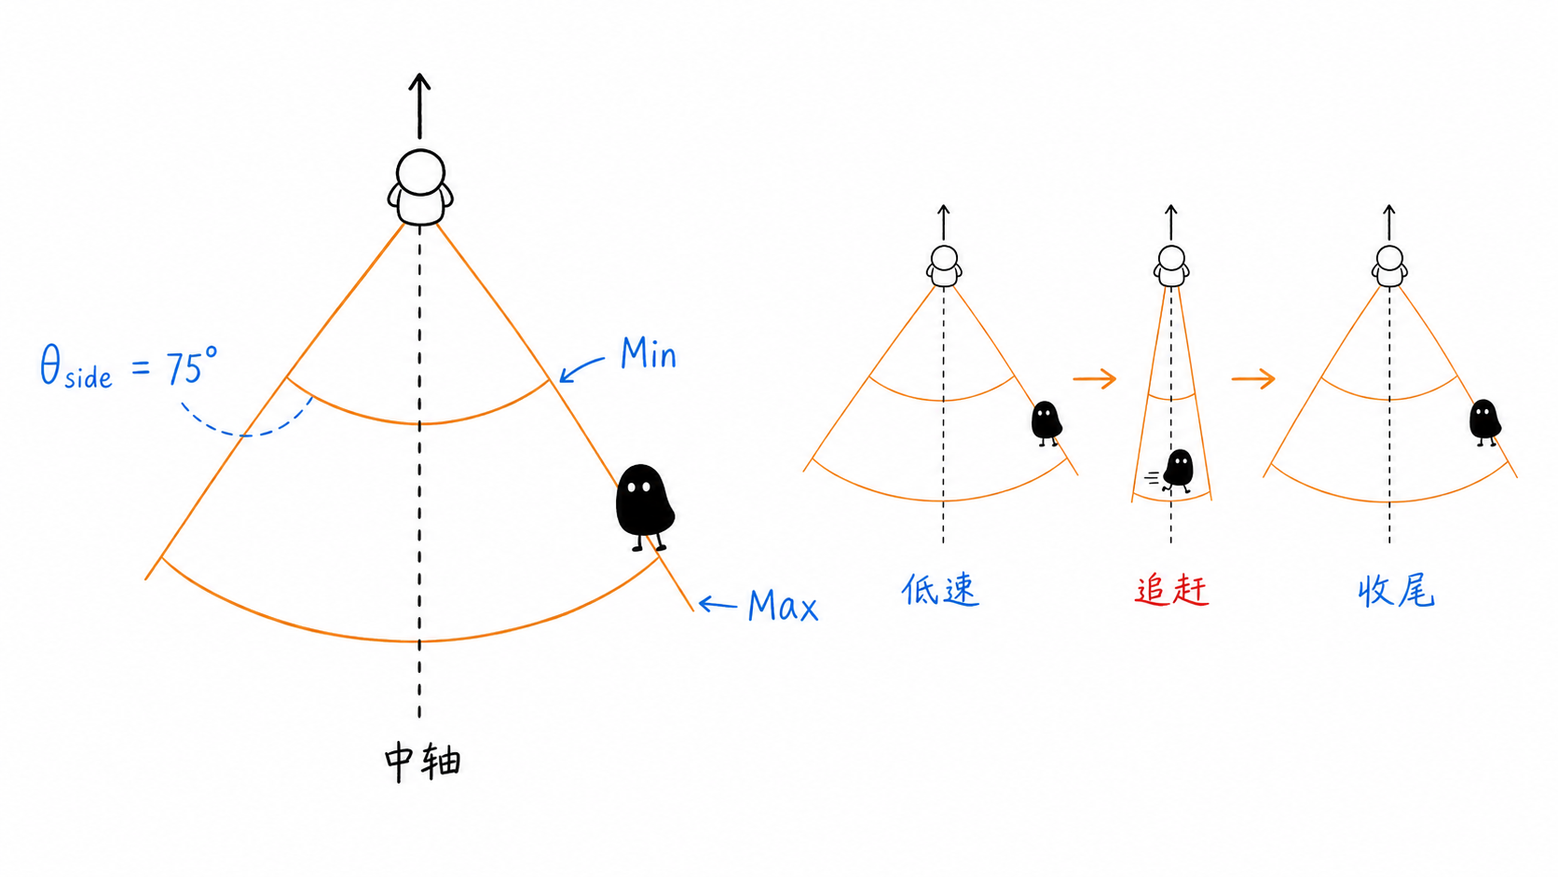
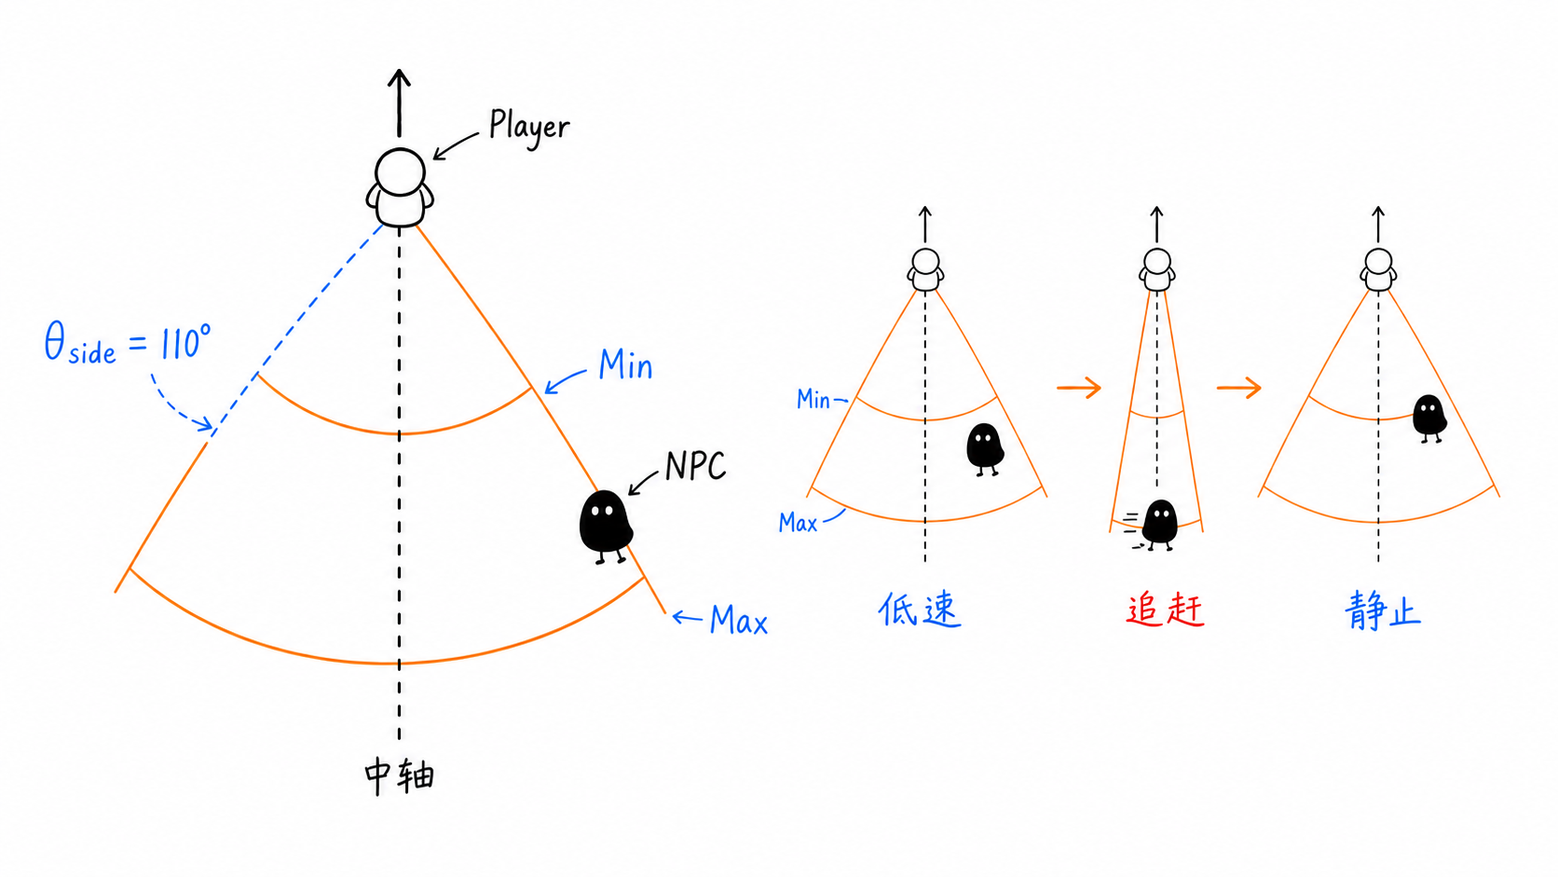
refine natural follow behavior article

diff --git a/src/content/blog/natural-follow-behavior-design.md b/src/content/blog/natural-follow-behavior-design.md
@@ -24,11 +24,11 @@ draft: false
   <figcaption>《原神》任务中 NPC 跟随玩家的表现：功能上能够跟上，但起停、转向和站位仍然容易显得生硬。</figcaption>
 </figure>
 
-这些问题不是单纯调高移动速度或缩短跟随距离就能解决的。对跟随系统而言，玩家的行为是一组无法预先控制的外部输入：玩家何时起步、向哪里移动、什么时候加速、转向或停止，都不由跟随系统决定。我们真正能够优化的，是 NPC 面对这些变化时所呈现出来的跟随表现。
+这些问题不能只靠调高移动速度或缩短跟随距离解决。对跟随系统来说，玩家的行为是一组无法预知的外部输入：玩家何时起步、向哪里移动、什么时候加速、转向或停止，都不由系统决定。系统能控制的，只有 NPC 如何响应这些变化。
 
 这是系列的上篇，只讨论 NPC 跟随玩家的情况。当玩家成为跟随方时，设计目标会从“维持自然站位”转变为“让 NPC 提供清晰、可追踪的引导”，那部分留到下篇。
 
-什么叫“自然”？我把开头观察到的几个问题落成四条验收标准，后文的设计和最后一节的走查都围绕它们展开：
+什么叫“自然”？我把开头观察到的问题整理成四条验收标准：
 
 1. **起停无指令感**：起步和停止有观察与过渡，不与玩家同帧响应；
 2. **站位稳定可预期**：距离和方位不忽近忽远、不左右横跳；
@@ -50,18 +50,12 @@ draft: false
 
 我想要的跟随更像放风筝：玩家始终牵着线，但 NPC 有自己的滑翔。具体来说，我不让 NPC 锁定玩家身后的某个固定点，而是给它一个**会随运动状态变形的扇形区域**：走得慢，待在侧后方；玩家突然跑起来，NPC 先愣一下再追，位置被拉向正后方；玩家停下，再慢慢踱回侧后方。
 
-把这个想法做出来，需要回答三个问题，它们也是本文的三层结构：
+要把这个想法做出来，需要分清三件事：站位决定 NPC 待在哪里，时序决定它什么时候响应，运动控制决定它怎么过去。第 5 节再用行为树把三者接起来，第 6 节回看验收结果。
 
-- NPC 应该待在哪里——站位（第 2 节）；
-- NPC 什么时候响应——时序（第 3 节）；
-- NPC 怎么移动——运动控制（第 4 节）。
-
-第 5 节把三层整合进行为树，第 6 节拿四条验收标准回头检查整个设计。
-
-**坐标与术语约定**（后文统一使用，不再重复说明）：
+**坐标与术语约定**：
 
 - 讨论相对位置时，假设玩家位于坐标原点、面朝 `+Y` 方向；玩家正后方的 `-Y` 轴称为**中轴**；
-- NPC 相对中轴的夹角记为 `θ`，与玩家的距离记为 `d`；
+- NPC 相对玩家前向 `+Y` 的有符号方位角记为 `θ`，与玩家的距离记为 `d`；中轴对应 `|θ| = 180°`；
 - NPC 在当前运动状态下应该处于的位置，称为**理想站位**；
 - “玩家先动、NPC 晚多久响应”的这段时间，称为**反应延迟 `τ`**。
 
@@ -80,13 +74,13 @@ draft: false
 这些随运动状态连续变化的理想站位，在玩家身后共同形成一个扇形。
 
 <figure>
-  <img src="/images/natural-follow-behavior-design/03-breathing-fan-model.png" alt="玩家面朝上方时，NPC 小黑在身后的扇形区域内移动；低速时扇形展开至侧后方，追赶时向中轴收拢，收尾时再次展开" loading="lazy" decoding="async" />
-  <figcaption>会“呼吸”的扇形：低速展开至侧后方，追赶时收向中轴，减速后再展开回来。</figcaption>
+  <img src="/images/natural-follow-behavior-design/03-breathing-fan-model.png" alt="玩家面朝上方时，NPC 小黑在身后的扇形区域内移动；低速时位于最小与最大距离之间，追赶时靠近中轴和最大距离，静止时回到侧后方的最小距离" loading="lazy" decoding="async" />
+  <figcaption>会“呼吸”的扇形：低速位于侧后方，追赶时收向中轴和远端，静止后再回到侧后方近端。</figcaption>
 </figure>
 
-距离同样不是定值：NPC 可以在最小距离 `Min` 和最大距离 `Max` 之间，根据当前速度和追赶状态调整远近。为了制作 Demo，我先取 `θ_side = 75°`、`Max = 5m`，得到一个总角度 `150°` 的扇形；这些只是演示参数，实际项目中可以按玩家速度、角色体型、人物关系和表演需求调整。
+距离也会随状态变化。静止时靠近 `Min`，低速移动时位于 `Min` 和 `Max` 之间，高速追赶时再向 `Max` 拉开。为了制作 Demo，我先把静止时的侧后方方位角 `θ_side` 设为 `110°`（从玩家前向量起），并取 `Max = 5m`。这样算下来，玩家身后的扇形张角约为 `140°`。这些只是 Demo 参数，实际项目中可以按玩家速度、角色体型、人物关系和表演需求调整。
 
-这里要区分扇形和工程容差：**扇形是所有运动状态下理想站位的集合；容差区只是围绕当前理想站位的一小块允许范围**，用来避免 NPC 因为微小误差频繁修正。容差区是防抖动手段，不是模型本身。
+扇形描述所有运动状态下的理想站位集合。工程上的容差区只是围绕当前理想站位的一小块范围，用来避免 NPC 因为微小误差频繁修正。它是防抖动手段，不是模型本身。
 
 “左后方”和“右后方”也不是固定状态，它们只是 NPC 当前相对位置的结果：玩家转向时，NPC 可以自然地从一侧过渡到另一侧，不必绕过玩家来维持原来的站位侧。
 
@@ -94,7 +88,7 @@ draft: false
 
 玩家在巷子里突然 180° 转身去捡一个掉落物——这是跟随系统最怕的瞬间之一。
 
-扇形锚定在玩家朝向上：玩家转向，扇形就跟着转。小幅转弯时，NPC 当前位置通常仍在新扇形的容差范围内，继续走就行，不必修正站位；中等转弯时，NPC 顺势从左后方过渡到右后方；只有大幅转向、当前位置明显偏离新扇形时，系统才重新计算目标——至于新目标怎么选，交给第 4 节。
+扇形锚定在玩家朝向上，玩家转向，它也跟着转。小幅转弯时，NPC 通常仍在新扇形的容差范围内，不必修正站位。中等转弯时，NPC 可以顺势从左后方过渡到右后方。只有大幅转向、当前位置明显偏离新扇形时，系统才会重新计算目标。
 
 ## 3. 时序：玩家先动，NPC 稍后响应
 
@@ -102,18 +96,18 @@ draft: false
 
 玩家在起步的同一帧就被跟上，看起来会很机灵，但也很不像人。我选择让 NPC 先观察、再响应：玩家先动，NPC 经过一段反应延迟 `τ` 后再跟上。这个延迟模拟的是 NPC 注意到玩家状态变化、再作出反应的过程。
 
-延迟不只用于起步，也用于之后对玩家速度、方向和转向状态的同步。这里还有一个设计立场的选择：日式 RPG 里常见的“蜈蚣式跟随”——队伍成员沿领队走过的精确路径依次跟进——实现简单，但转弯时像一列火车。我让 NPC 在获得玩家状态后，结合自己的当前位置**重新计算目标**，而不是复现路径。人机跟随研究也支持这个方向：相比复现被跟随者的精确路径，参与者认为朝向被跟随者当前方向移动的机器人更加自然、更像人。[Natural Person-Following Behavior for Social Robots](https://www.ri.cmu.edu/pub_files/pub4/gockley_rachel_2007_1/gockley_rachel_2007_1.pdf)
+延迟不只用在起步上，玩家速度、方向和朝向的变化也会晚一些反映到 NPC。日式 RPG 里常见“蜈蚣式跟随”：队伍成员沿领队走过的精确路径依次跟进。这样实现简单，但转弯时像一列火车。我的做法是让 NPC 读到玩家状态后，结合自己的当前位置**重新计算目标**，而不是复现路径。人机跟随研究也得到了类似结果：相比复现被跟随者的精确路径，参与者认为朝向被跟随者当前方向移动的机器人更自然、更像人。[Natural Person-Following Behavior for Social Robots](https://www.ri.cmu.edu/pub_files/pub4/gockley_rachel_2007_1/gockley_rachel_2007_1.pdf)
 
-行为学实验也观察到了类似的滞后：在一项直线行人跟随实验中，领路者改变速度后，跟随者加速度变化的平均延迟约为 `420ms`。这说明“玩家先动、NPC 稍后响应”有现实依据，但 `420ms` 不能直接搬进游戏，实际取值仍要服从角色响应感、移动速度和动画节奏。[行人跟随中的速度视觉控制研究](https://pmc.ncbi.nlm.nih.gov/articles/PMC3919103/) 这里的取舍是：`τ` 越长越从容，也越容易掉队——这个矛盾的另一半，由下面的安全通道解决。
+一项直线行人跟随实验测到，领路者改变速度后，跟随者加速度变化的平均延迟约为 `420ms`。这给“玩家先动、NPC 稍后响应”提供了现实参照，但这个数不能直接搬进游戏。`τ` 还要按角色响应感、移动速度和动画节奏来调。[行人跟随中的速度视觉控制研究](https://pmc.ncbi.nlm.nih.gov/articles/PMC3919103/) `τ` 越长，NPC 显得越从容，也越容易掉队；距离失控时，实时安全通道会直接触发追赶。
 
 <figure>
   <img src="/images/natural-follow-behavior-design/04-reaction-delay-curve.png" alt="玩家速度先上升，NPC 速度经过反应延迟后才开始上升，并在追赶阶段短暂超过玩家速度，最后比玩家更晚收敛到零" loading="lazy" decoding="async" />
   <figcaption>反应延迟不是停顿：NPC 晚 `τ` 起步，随后通过追赶追回距离，并在玩家停止后平滑收敛。</figcaption>
 </figure>
 
-工程上还要区分三个时间概念，避免它们被简单相加成一段漫长的等待：
+工程上有三个容易混淆的时间概念。它们不能简单相加，否则 NPC 会等得太久：
 
-- **移动确认时间**：判断玩家是正式移动，还是只碰了一下摇杆——它就是第 5 节 `React` 状态的进入条件；
+- **移动确认时间**：判断玩家是正式移动，还是只碰了一下摇杆，也是第 5 节 `React` 状态的进入条件；
 - **状态采样间隔**：系统多久记录一次玩家状态，纯属实现频率；
 - **反应延迟 `τ`**：玩家状态确认变化后，NPC 在表现上晚多久响应，本文讨论的“延迟”都指它。
 
@@ -122,9 +116,9 @@ draft: false
 延迟可以驱动普通跟随，但不能处理所有问题。系统同时维护两条通道：
 
 - **延迟快照**：玩家的位置、移动方向、移动速度、转向状态，经过延迟后驱动普通跟随；
-- **实时通道**：只用玩家当前的真实位置检查双方距离，一旦超过 `Max` 或距离失控，立刻触发追赶——它不做别的，只负责兜底。
+- **实时通道**：只用玩家当前的真实位置检查双方距离，一旦超过 `Max` 或距离失控，立刻触发追赶；除此之外不参与普通跟随。
 
-这样两种效果兼得：平时保留“玩家先动、NPC 稍后跟上”的从容；玩家突然加速时，又不会因为等待延迟而让 NPC 落后太久。
+普通情况下，NPC 仍会晚一步响应；距离超过 `Max` 时，实时通道会直接切入追赶，不再等待延迟。
 
 ## 4. 运动：从站位目标到连续移动
 
@@ -132,23 +126,24 @@ draft: false
 
 系统每次更新时，手里有两份状态：玩家的延迟状态 `Sₚ(t - τ)`（位置 `Pₚ`、速度 `Vₚ`、朝向 `φₚ`），以及 NPC 的当前状态 `Sₐ(t)`。
 
-先把 NPC 的世界坐标转换到玩家延迟状态的局部坐标，得到当前距离 `d` 和相对角度 `θ`。再用 `u ∈ [0, 1]` 表示当前的追赶强度——`u` 可以由玩家延迟速度归一化后与距离误差加权得到，Demo 里甚至可以只用速度一项。理想站位的角度：
+先把 NPC 的世界坐标转换到玩家延迟状态的局部坐标，得到当前距离 `d` 和相对角度 `θ`。再用 `u ∈ [0, 1]` 表示当前的追赶强度。`u` 可以由玩家延迟速度归一化后与距离误差加权得到，Demo 里甚至可以只用速度一项。理想站位可以这样计算：
 
 ```text
-θ_pref = side × (1 - u) × θ_side
+θ_pref = side × Lerp(θ_side, 180°, u)
+d_pref = Lerp(Min, Max, u)
 ```
 
-翻译过来：**跑得越急，越往正后方钻**。`side` 表示当前位于左侧还是右侧（它只是结果，不是状态），`θ_side` 是低速时的侧后方偏好角度。
+**跑得越急，越往正后方钻，也离玩家越远**。`side` 表示当前位于左侧还是右侧（它只是结果，不是状态），`θ_side` 是静止时从玩家前向量到侧后方的偏好角度。`u = 0` 时，NPC 靠近侧后方的 `Min`；`u = 1` 时，NPC 靠近中轴上的 `Max`。
 
-值得一提的是，加速时 `|θ|` 的收拢有一半是几何白送的——玩家沿自己的朝向跑远，落后的 NPC 相对角度自然变小。`θ_pref` 真正不可替代的价值在另一半：**减速后主动展开回侧后方，以及左右侧的选择与切换**——这些几何不送。
+玩家沿自己的朝向跑远时，落后的 NPC 本来就会自然接近正后方，因此 `|θ|` 向 `180°` 靠拢有一半是几何白送的。`θ_pref` 负责几何不会自动完成的另一半：减速后重新展开到侧后方，以及左右侧的选择与切换。这些几何不送。
 
-距离 `d_pref` 按同样的 `u` 在 `Min` 与 `Max` 之间调整，与 `θ_pref` 共同得到局部坐标中的理想站位。站位周围设一小块容差区防抖：NPC 位于容差区内时保持当前相对位置，离开后目标指向扇形内较近的一侧。最后把局部目标转换回世界坐标：
+`d_pref` 与 `θ_pref` 共同得到局部坐标中的理想站位。站位周围设一小块容差区防抖：NPC 位于容差区内时保持当前相对位置，离开后目标指向扇形内较近的一侧。最后把局部目标转换回世界坐标：
 
 ```text
 Q = Pₚ(t - τ) + Rotate(φₚ(t - τ), r*)
 ```
 
-第 2.3 节留下的大幅转向问题也在这里落地：玩家大幅转向时，新扇形中“距离 NPC 当前位置较近、同时符合当前速度状态”的位置成为新目标——所以 NPC 可能顺势换到另一侧，而不是绕远路维持原来的站位侧。
+玩家大幅转向后，系统会在新扇形中选择“距离 NPC 当前位置较近、同时符合当前速度状态”的位置作为目标。NPC 因此可能顺势换到另一侧，不必绕远路维持原来的站位侧。
 
 ### 4.2 用参考速度和加速度走完最后一步
 
@@ -159,7 +154,7 @@ Vraw = Vₚ(t - τ) + Kₚ(Q - Pₐ)
 Vᵣ = ClampMagnitude(Vraw, Vₘₐₓ(state))
 ```
 
-翻译过来：**一边跟上玩家的延迟速度，一边按站位误差纠偏**；`Vₘₐₓ(state)` 允许正常跟随和追赶状态使用不同的速度上限。
+NPC **一边跟上玩家的延迟速度，一边按站位误差纠偏**；`Vₘₐₓ(state)` 允许正常跟随和追赶状态使用不同的速度上限。
 
 参考速度不能直接赋值，否则速度会瞬间跳变。我选择让系统持续施加加速度，让当前速度逐渐接近参考速度：
 
@@ -170,11 +165,11 @@ Vₐ(t + Δt) = Vₐ(t) + Aₐ × Δt
 Pₐ(t + Δt) = Pₐ(t) + Vₐ × Δt
 ```
 
-`T` 控制收敛需要多长时间，`Aₘₐₓ(state)` 限制不同状态下的最大加速度。代码层面，跟随系统持续输出加速度或移动输入，而不是在状态变化时改写速度——这样起步和停止自然有了过渡，动画系统也好配合。
+`T` 控制收敛需要多长时间，`Aₘₐₓ(state)` 限制不同状态下的最大加速度。代码层面，跟随系统持续输出加速度或移动输入，不在状态变化时直接改写速度。起步和停止因此有了过渡，动画系统也更容易配合。
 
-同一套控制也顺带解决了转弯表现：目标方向变化小，参考速度的方向变化就小，NPC 走出平缓的弯；变化大，转向幅度逐渐提高，速度越高完成转向所需的空间越大，因此还需要各状态的速度与加速度上限约束追赶时的转弯幅度。
+同一套控制也能处理转弯。目标方向变化小，参考速度的方向变化也小，NPC 会走出平缓的弯。变化大时，转向幅度逐渐提高。速度越高，完成转向所需的空间越大，因此还要用各状态的速度与加速度上限约束追赶时的转弯幅度。
 
-要注意的是，延迟加修正增益的组合本身有振荡风险——追过头、再反向修正、来回拉锯。加速度收敛可以提供阻尼，但最终是否稳定，仍取决于 `τ`、`Kₚ`、`T` 以及各项上限的搭配。[Time-delayed Follow-the-Leader model](https://www.aimsciences.org/article/doi/10.3934/nhm.2015.10.579)
+延迟加修正增益的组合本身有振荡风险：追过头、再反向修正、来回拉锯。加速度收敛可以提供阻尼，但最终是否稳定，仍取决于 `τ`、`Kₚ`、`T` 以及各项上限的搭配。[Time-delayed Follow-the-Leader model](https://www.aimsciences.org/article/doi/10.3934/nhm.2015.10.579)
 
 ## 5. 整合：优先级与行为树
 
@@ -189,52 +184,42 @@ Pₐ(t + Δt) = Pₐ(t) + Vₐ × Δt
 | `Follow` | 反应延迟结束 | 根据当前速度调整扇形内的理想角度与距离 |
 | `CatchUp` | 当前真实距离超过 `Max` | 提高速度和加速度，并让目标角度向中轴收拢 |
 | `Settle` | 玩家停止，而 NPC 尚未完成收尾 | 逐渐减速，并把目标位置展开回侧后方 |
-| `Recover` | 距离或导航状态进入兜底阈值 | 使用项目定义的方式恢复跟随关系 |
-
-其中 `React` 的进入条件“玩家移动意图得到确认”，对应的就是第 3.1 节的移动确认时间：用它来过滤摇杆误触和短暂微调，避免 NPC 一惊一乍。
+| `Recover` | 距离或导航状态进入恢复阈值 | 使用项目定义的方式恢复跟随关系 |
 
 <figure>
   <img src="/images/natural-follow-behavior-design/05-follow-state-machine.png" alt="NPC 跟随状态机：Idle 经 React 进入 Follow，Follow 可切换至 CatchUp 或 Settle，任意状态都可进入 Recover，恢复后返回 Follow" loading="lazy" decoding="async" />
   <figcaption>行为树只切换跟随意图：小黑在 `Follow` 道岔上选择追赶或收尾，异常情况统一落入 `Recover`。</figcaption>
 </figure>
 
-这些状态不直接设置 NPC 的位置或速度，只切换当前的跟随意图与参数上限；具体运动仍然由目标生成和加速度控制完成。
-
 ## 6. 验收：拿四条标准回头检查
 
 最后用开头的四条验收标准，拿“玩家的一次起步—加速—转弯—停止”走查这套设计：
 
-1. **起步（验收①）**：玩家起步，系统先确认移动意图，NPC 在 `React` 里等完 `τ` 再起步——不与玩家同帧，起步无指令感。
-2. **加速与掉队（验收①④）**：玩家加速，NPC 经延迟后追赶，目标角度向中轴收拢；若真实距离超过 `Max`，实时通道触发 `CatchUp` 提高上限追回——掉队可恢复。
-3. **转弯（验收③）**：扇形随玩家的延迟朝向旋转，NPC 向新扇形内最近的合理位置过渡，顺势换侧而不绕行——不抢戏、不绕到玩家面前。
-4. **停止（验收①②）**：玩家停下，NPC 进入 `Settle`，在连续减速的同时展开回侧后方，最后落定在稳定站位——站位可预期，不忽近忽远。
+1. **起步（验收①）**：玩家起步后，系统先确认移动意图，NPC 在 `React` 里等完 `τ` 再起步。两者不在同一帧响应，起步也不会像收到指令。
+2. **加速与掉队（验收①④）**：玩家加速后，NPC 经延迟开始追赶，目标角度向中轴收拢。如果真实距离超过 `Max`，实时通道会触发 `CatchUp` 并提高运动上限，让 NPC 追回距离。
+3. **转弯（验收③）**：扇形随玩家的延迟朝向旋转，NPC 向新扇形内最近的合理位置过渡，顺势换侧而不绕行，也不会抢到玩家面前。
+4. **停止（验收①②）**：玩家停下后，NPC 进入 `Settle`，一边连续减速，一边向侧后方展开，最后停在稳定站位。
 
 <figure>
   <img src="/images/natural-follow-behavior-design/06-follow-trajectory-walkthrough.png" alt="俯视轨迹中，玩家依次起步、加速、转弯和停止；NPC 小黑延迟起步，追赶时靠近中轴，转弯时选择更自然的新路径，最后停在玩家侧后方" loading="lazy" decoding="async" />
   <figcaption>一次完整走查：NPC 不复刻玩家轨迹，而是在 `React`、`CatchUp`、`Follow` 与 `Settle` 中连续调整。</figcaption>
 </figure>
 
-用这套模型回看开头视频里的出戏瞬间：起停像指令，对应缺失的反应延迟与减速收敛；站位忽近忽远，对应缺失的容差与理想站位调度。它们正是本文试图解决的三类问题。
+用这套模型回看开头视频里的出戏瞬间：起停像指令，对应缺失的反应延迟与减速收敛；站位忽近忽远，对应缺失的容差与理想站位调度。
 
 ## 小结
 
-这套跟随设计可以归纳为三条原则：
-
-1. 扇形是 NPC 在不同运动状态下理想站位的集合：低速位于侧后方，高速追赶时向中轴收拢，减速后再展开回来；
-2. NPC 不复现玩家走过的精确路径，而是在延迟读取玩家状态后，根据当前速度和相对位置重新计算目标；
-3. 行为树负责切换跟随意图，运动控制负责让 NPC 在扇形中的不同理想站位之间连续过渡。
-
-全篇的关键决策可以压缩成一张表：
+本文采用的方案如下：
 
 | 决策点 | 备选方案 | 本文选择 | 理由 |
 | --- | --- | --- | --- |
 | 跟随策略 | 复现玩家路径（蜈蚣式） | 目标重算 | 转向自然，有文献支持 |
-| 响应时机 | 即时响应 | 反应延迟 + 实时安全通道 | 从容感与掉队兜底兼得 |
+| 响应时机 | 即时响应 | 反应延迟 + 实时安全通道 | 从容感与掉队恢复兼得 |
 | 速度执行 | 直接设置速度 | 加速度收敛 | 无速度跳变，对动画系统友好 |
 | 站位约束 | 固定点、固定侧 | 动态扇形 | 随速度变形，转向可顺势换侧 |
 
 ## 边界与下一步
 
-这套模型目前假设开阔环境。扇形内的理想站位可能落在墙体或障碍物里，需要导航层做合法性检查，非法时退化为“可到达的最近站位”；导航与站位目标冲突时由谁仲裁、多 NPC 跟随时的相互避让、上下楼梯等 Z 轴场景，本文都还没有展开，暂时统一交给 `Recover` 兜底。这些和 Demo 一起，是下一步要补的部分。
+这套模型目前假设开阔环境。扇形内的理想站位可能落在墙体或障碍物里，需要导航层检查是否合法；目标不可达时，退化为“可到达的最近站位”。导航与站位目标如何仲裁、多 NPC 跟随时如何避让，以及上下楼梯等 Z 轴场景，本文都没有展开，暂时统一交给 `Recover` 兜底。这些问题会和 Demo 一起留到下一步处理。
 
 下篇将换一个方向：当玩家成为跟随方时，设计目标会从“维持自然站位”转变为“让 NPC 提供清晰、可追踪的引导”，届时再讨论领队 NPC 的行为设计。
